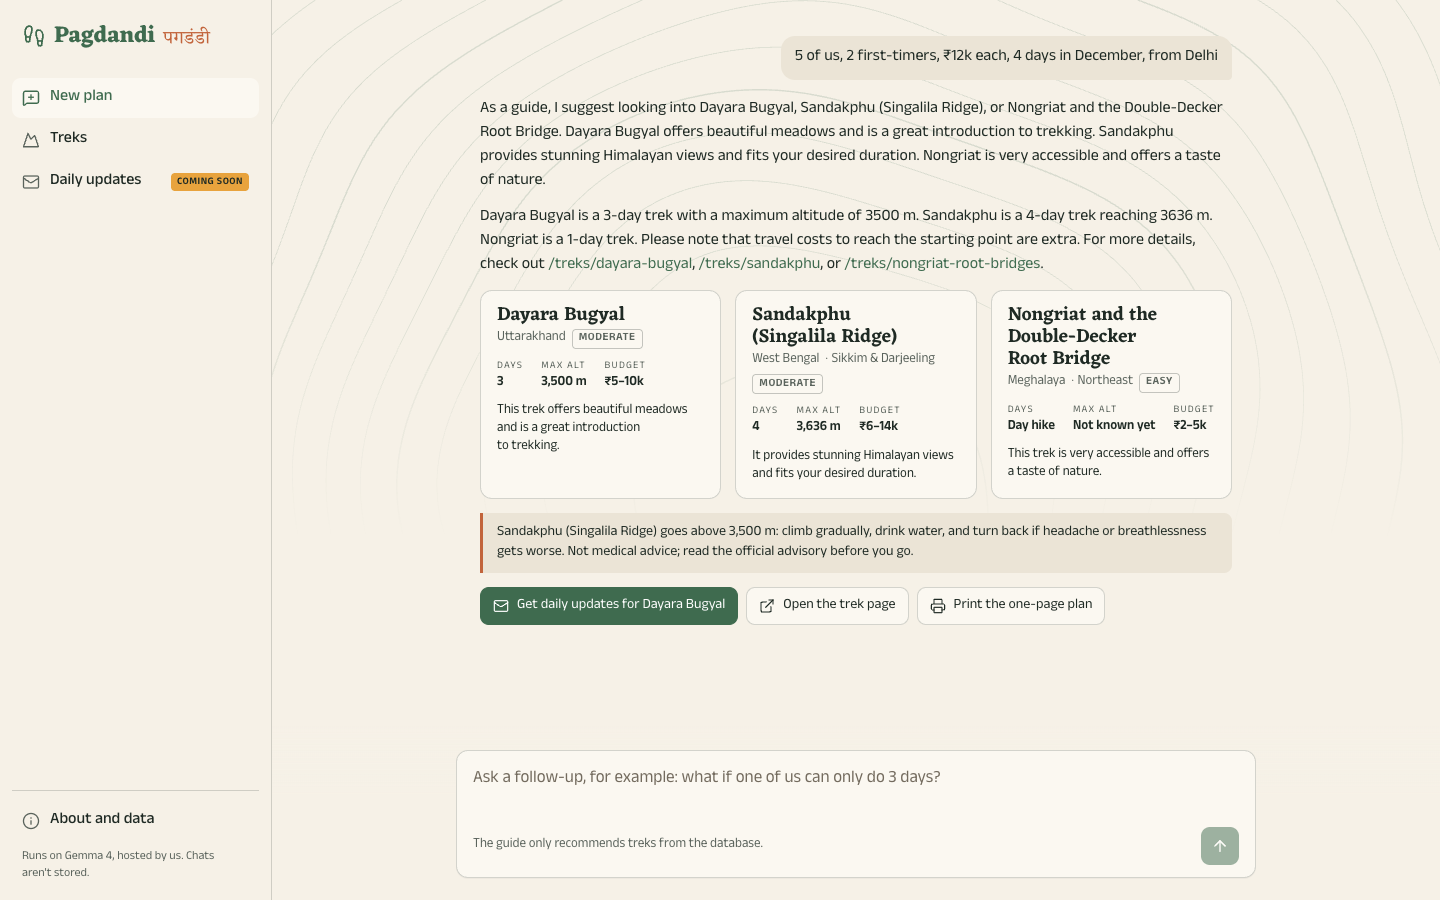
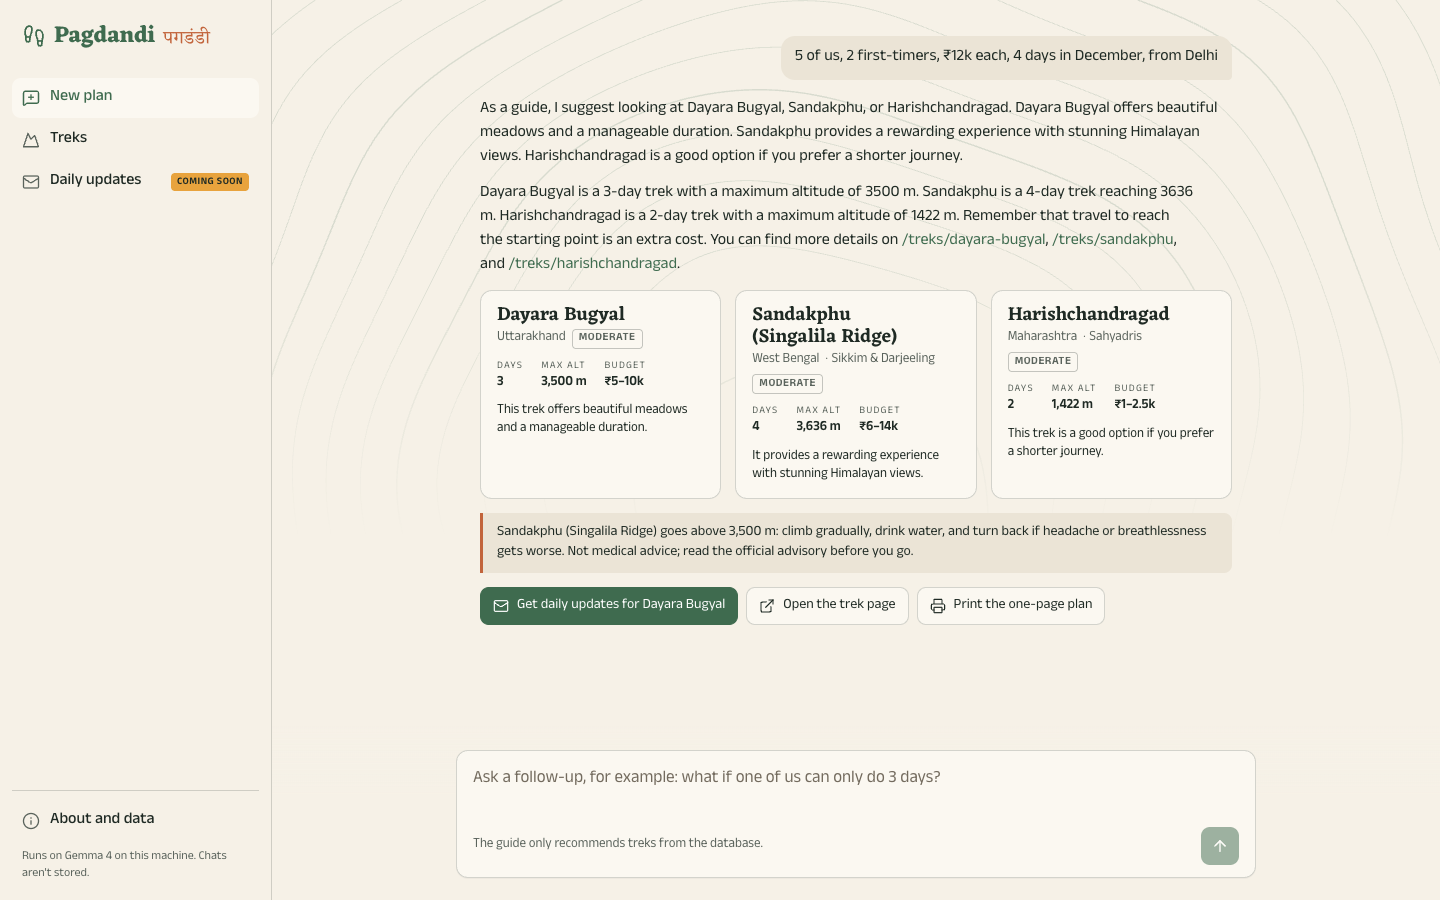
Retake the three screenshots the README and post use; no YouTube
The screenshots predated the audio and the laptop-only change: the Treks
table said "not recorded yet" in every row, the trek page said "Audio intro
not recorded yet" and "about a minute and a half", and the sidebar still
read "hosted by us". Retaken from the running site at the same sizes
(1440×900, and 390×844 for the phone): the guide's Delhi answer, the table
with 20 audio players, and Kedarkantha with its player.

The post's Demo keeps the GitHub video link; the note about a YouTube embed
is gone (decision: no YouTube).

diff --git a/docs/devto-post.md b/docs/devto-post.md
@@ -45,8 +45,6 @@ The screen is the shortest part of the experience: a few minutes to choose, ten 
 
 **[Watch the demo](https://github.com/prateek11rai/pagdandi/blob/main/docs/demo/pagdandi-demo.mp4)** (2½ minutes; GitHub plays it in the browser): the guide, the table with its audio intros, a trek page and the one-page plan, then a sign-up and the daily email.
 
-<!-- If Prateek uploads the video to YouTube, replace the link above with {% embed <YouTube URL> %}. -->
-
 **Run it in 10 minutes**, plus the model download (a few GB). Pagdandi runs on a laptop; there's no hosted copy, and anyone can run their own. On a Mac with Homebrew:
 
 ```sh
